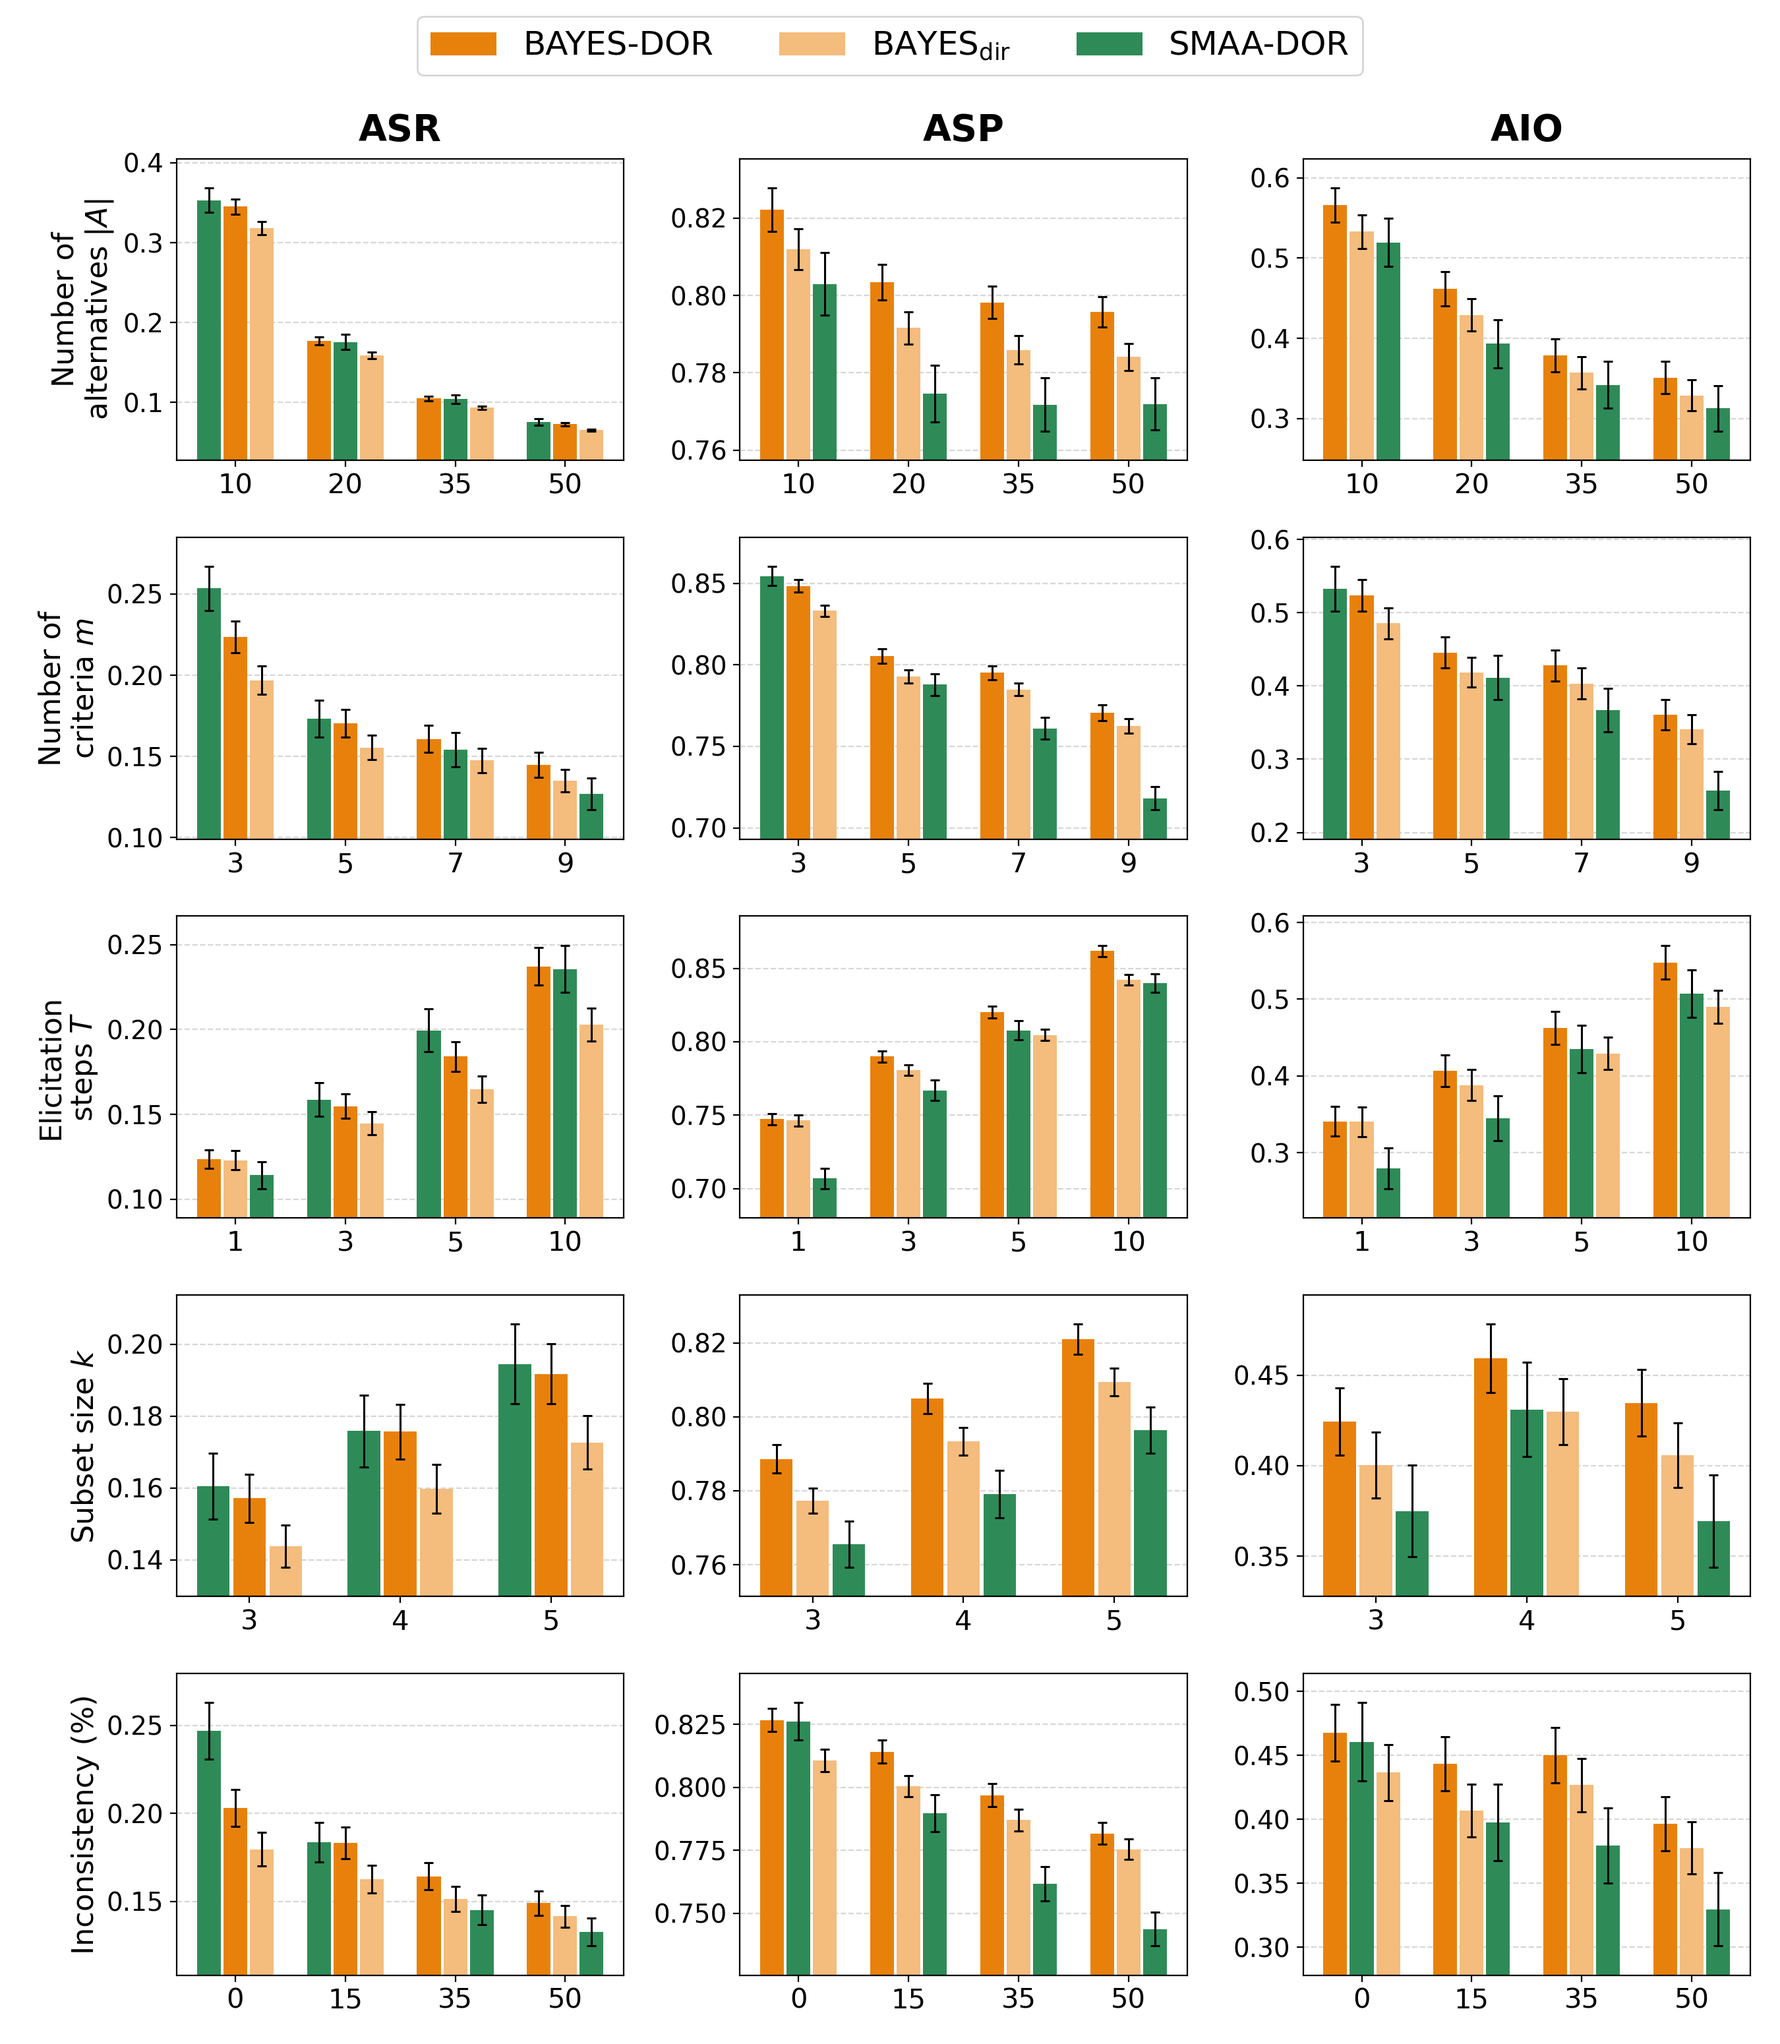
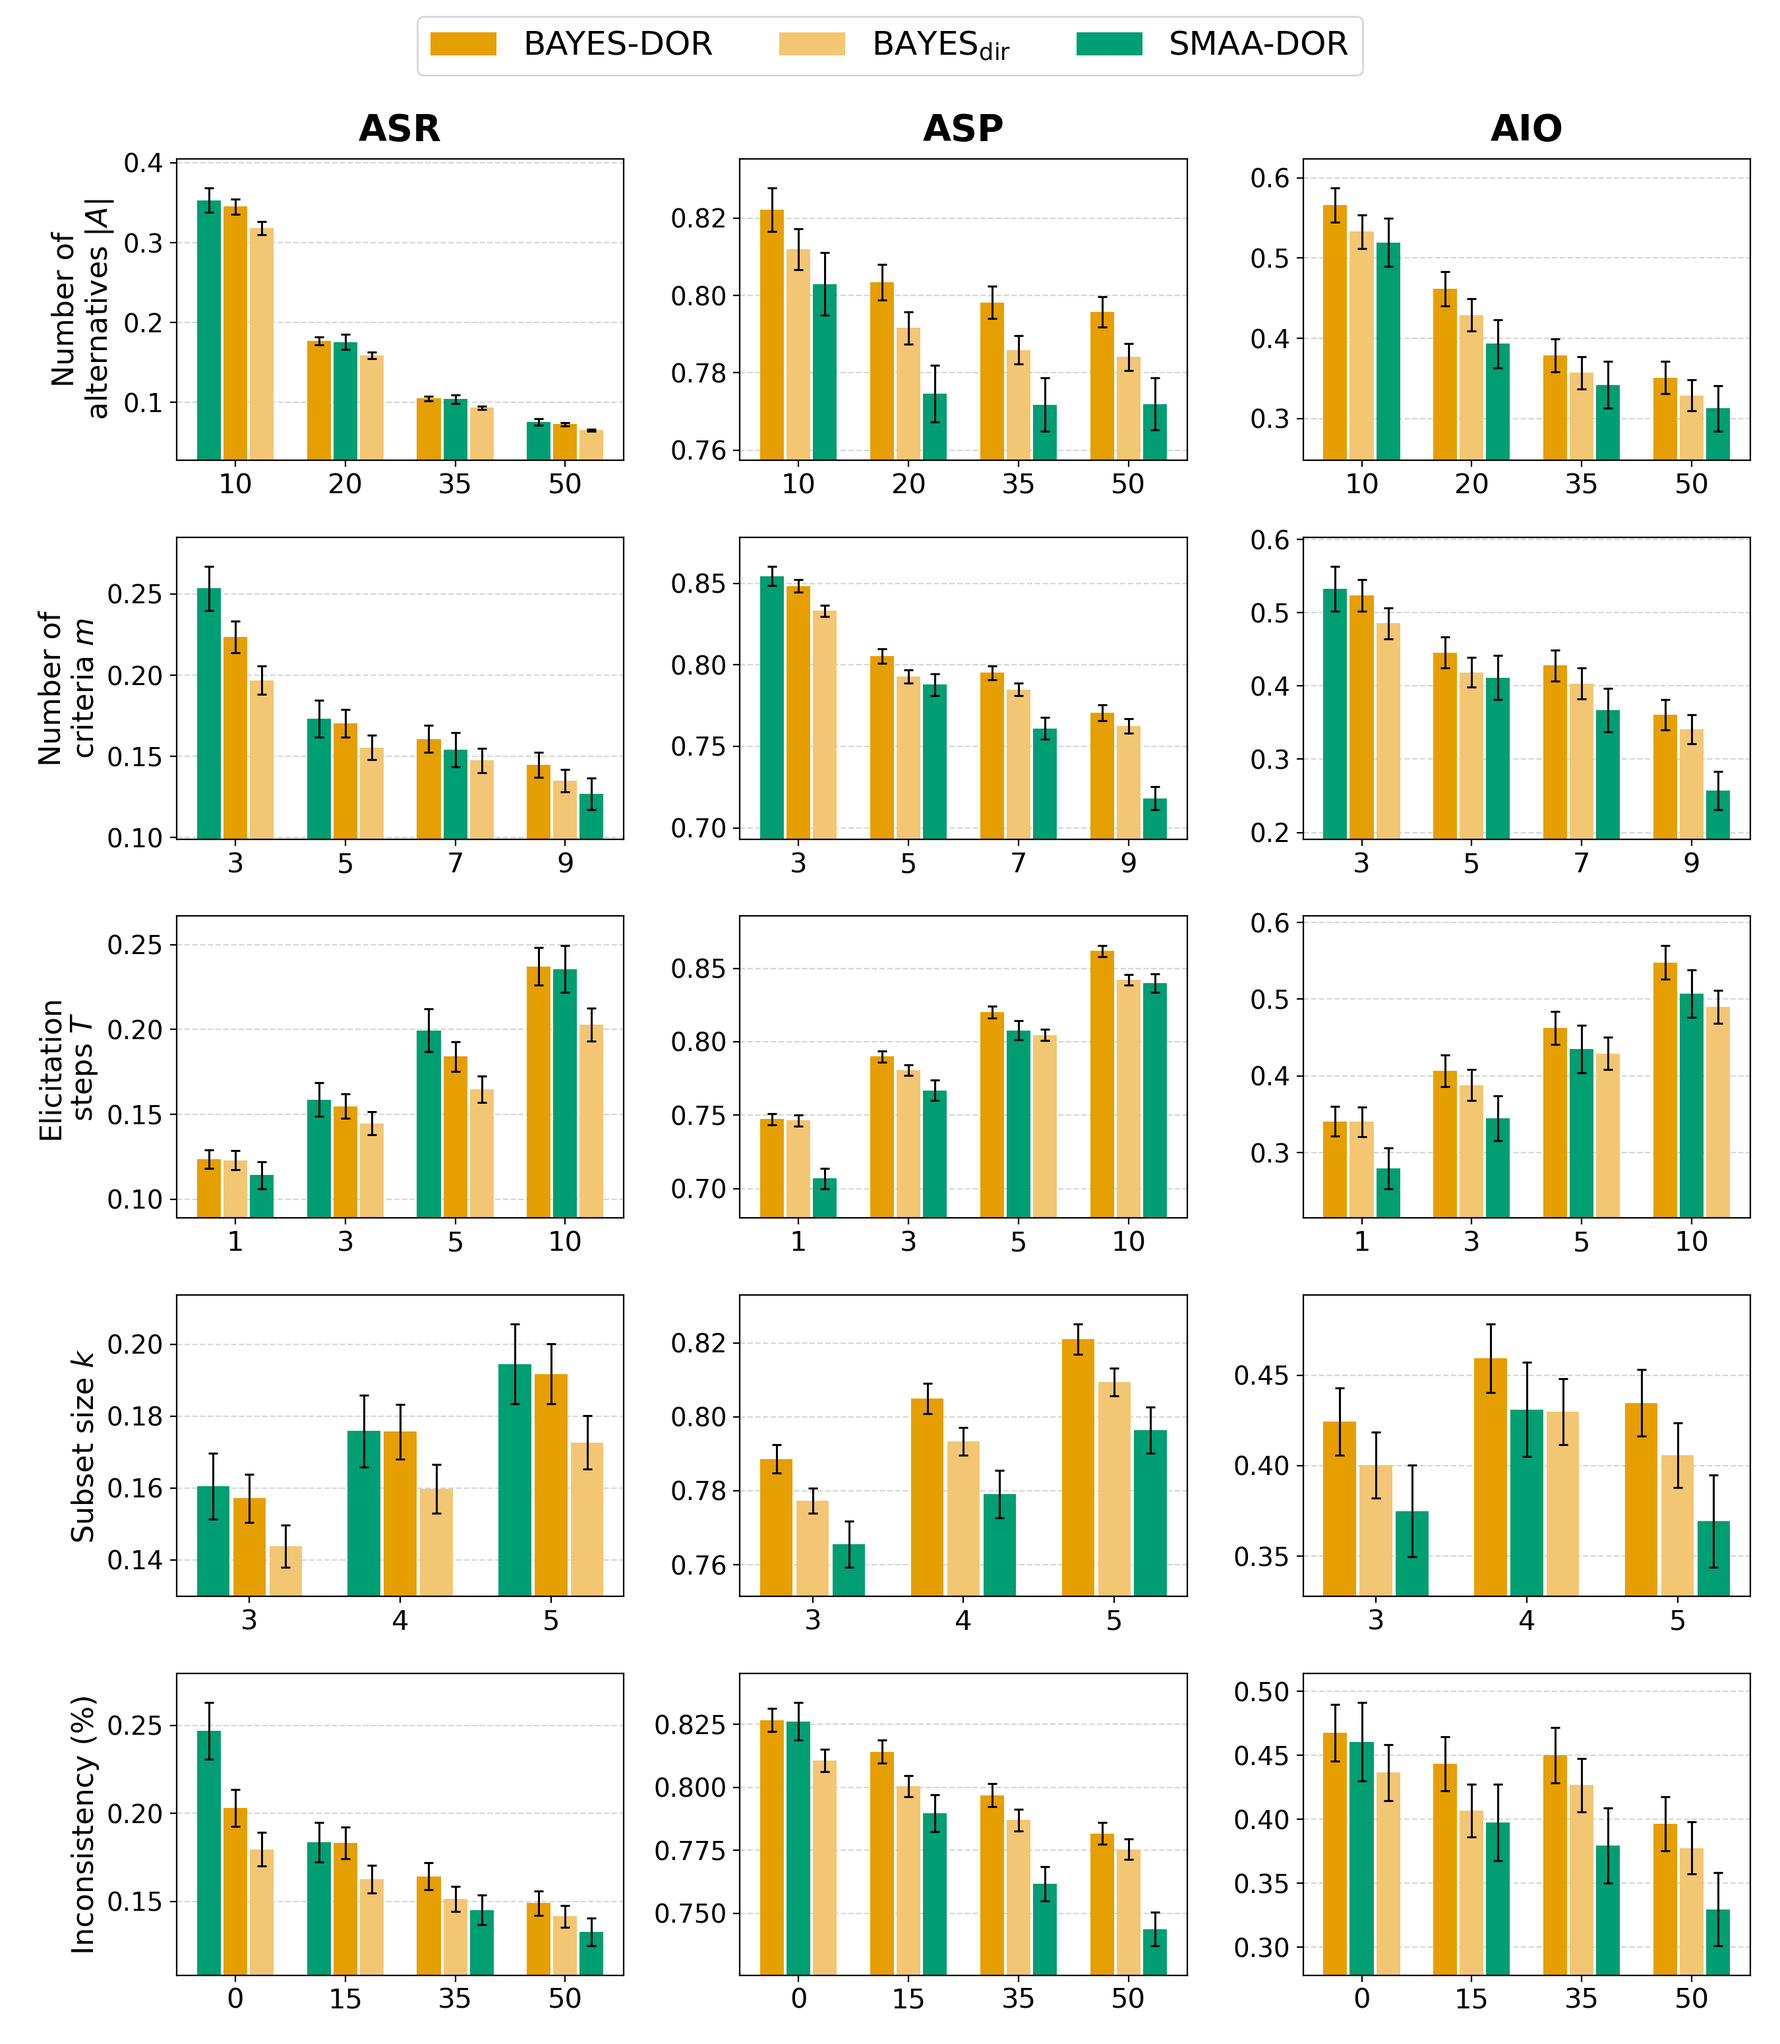
Adopt the Okabe-Ito colour-blind-safe palette for all result figures
Blue and sky blue for the FTRL family, orange and light orange for the BAYES
family, bluish green for SMAA-DOR and reddish purple for the DOR linear
programme, which replaces the grey that made it read as de-emphasised. All
five figures regenerated so the six methods keep one identity across the
overall, factor, regret and tau plots.

diff --git a/make_paper_figs_v1.py b/make_paper_figs_v1.py
@@ -33,14 +33,17 @@ MET_LABEL = {'asrs': 'ASR', 'asps': 'ASP', 'aios': 'AIO'}
 T_LEVELS = [1, 3, 5, 10]
 DPI = 200
 
+# Okabe-Ito colour-blind-safe palette: blue / sky blue for the FTRL family,
+# orange / light orange for the BAYES family, bluish green and reddish purple
+# for the two competing baselines.
 STYLE = {
-    'FTRL_DOR_ADJJ1':  dict(color='#1f4fd8', ls='-',  marker='o', label='FTRL-DOR'),
-    'BAYES_DOR_ADJJ1': dict(color='#e8810c', ls='--', marker='s', label='BAYES-DOR'),
-    'SMAA_DOR_ADJJ1':  dict(color='#2e8b57', ls='-.', marker='^', label='SMAA-DOR'),
-    'DORLP_DOR_ADJJ1': dict(color='#777777', ls=':',  marker='D', label='DOR (LP)'),
-    'FTRLDIR_DOR_ADJJ1':  dict(color='#8fa9ec', ls='-',  marker='o',
+    'FTRL_DOR_ADJJ1':  dict(color='#0072B2', ls='-',  marker='o', label='FTRL-DOR'),
+    'BAYES_DOR_ADJJ1': dict(color='#E69F00', ls='--', marker='s', label='BAYES-DOR'),
+    'SMAA_DOR_ADJJ1':  dict(color='#009E73', ls='-.', marker='^', label='SMAA-DOR'),
+    'DORLP_DOR_ADJJ1': dict(color='#CC79A7', ls=':',  marker='D', label='DOR (LP)'),
+    'FTRLDIR_DOR_ADJJ1':  dict(color='#7FC4EC', ls='-',  marker='o',
                                label=r'FTRL$_{\mathrm{dir}}$'),
-    'BAYESDIR_DOR_ADJJ1': dict(color='#f4bc7d', ls='--', marker='s',
+    'BAYESDIR_DOR_ADJJ1': dict(color='#F3C673', ls='--', marker='s',
                                label=r'BAYES$_{\mathrm{dir}}$'),
 }
 ARMS_ALL = ['FTRL_DOR_ADJJ1', 'BAYES_DOR_ADJJ1', 'SMAA_DOR_ADJJ1',
